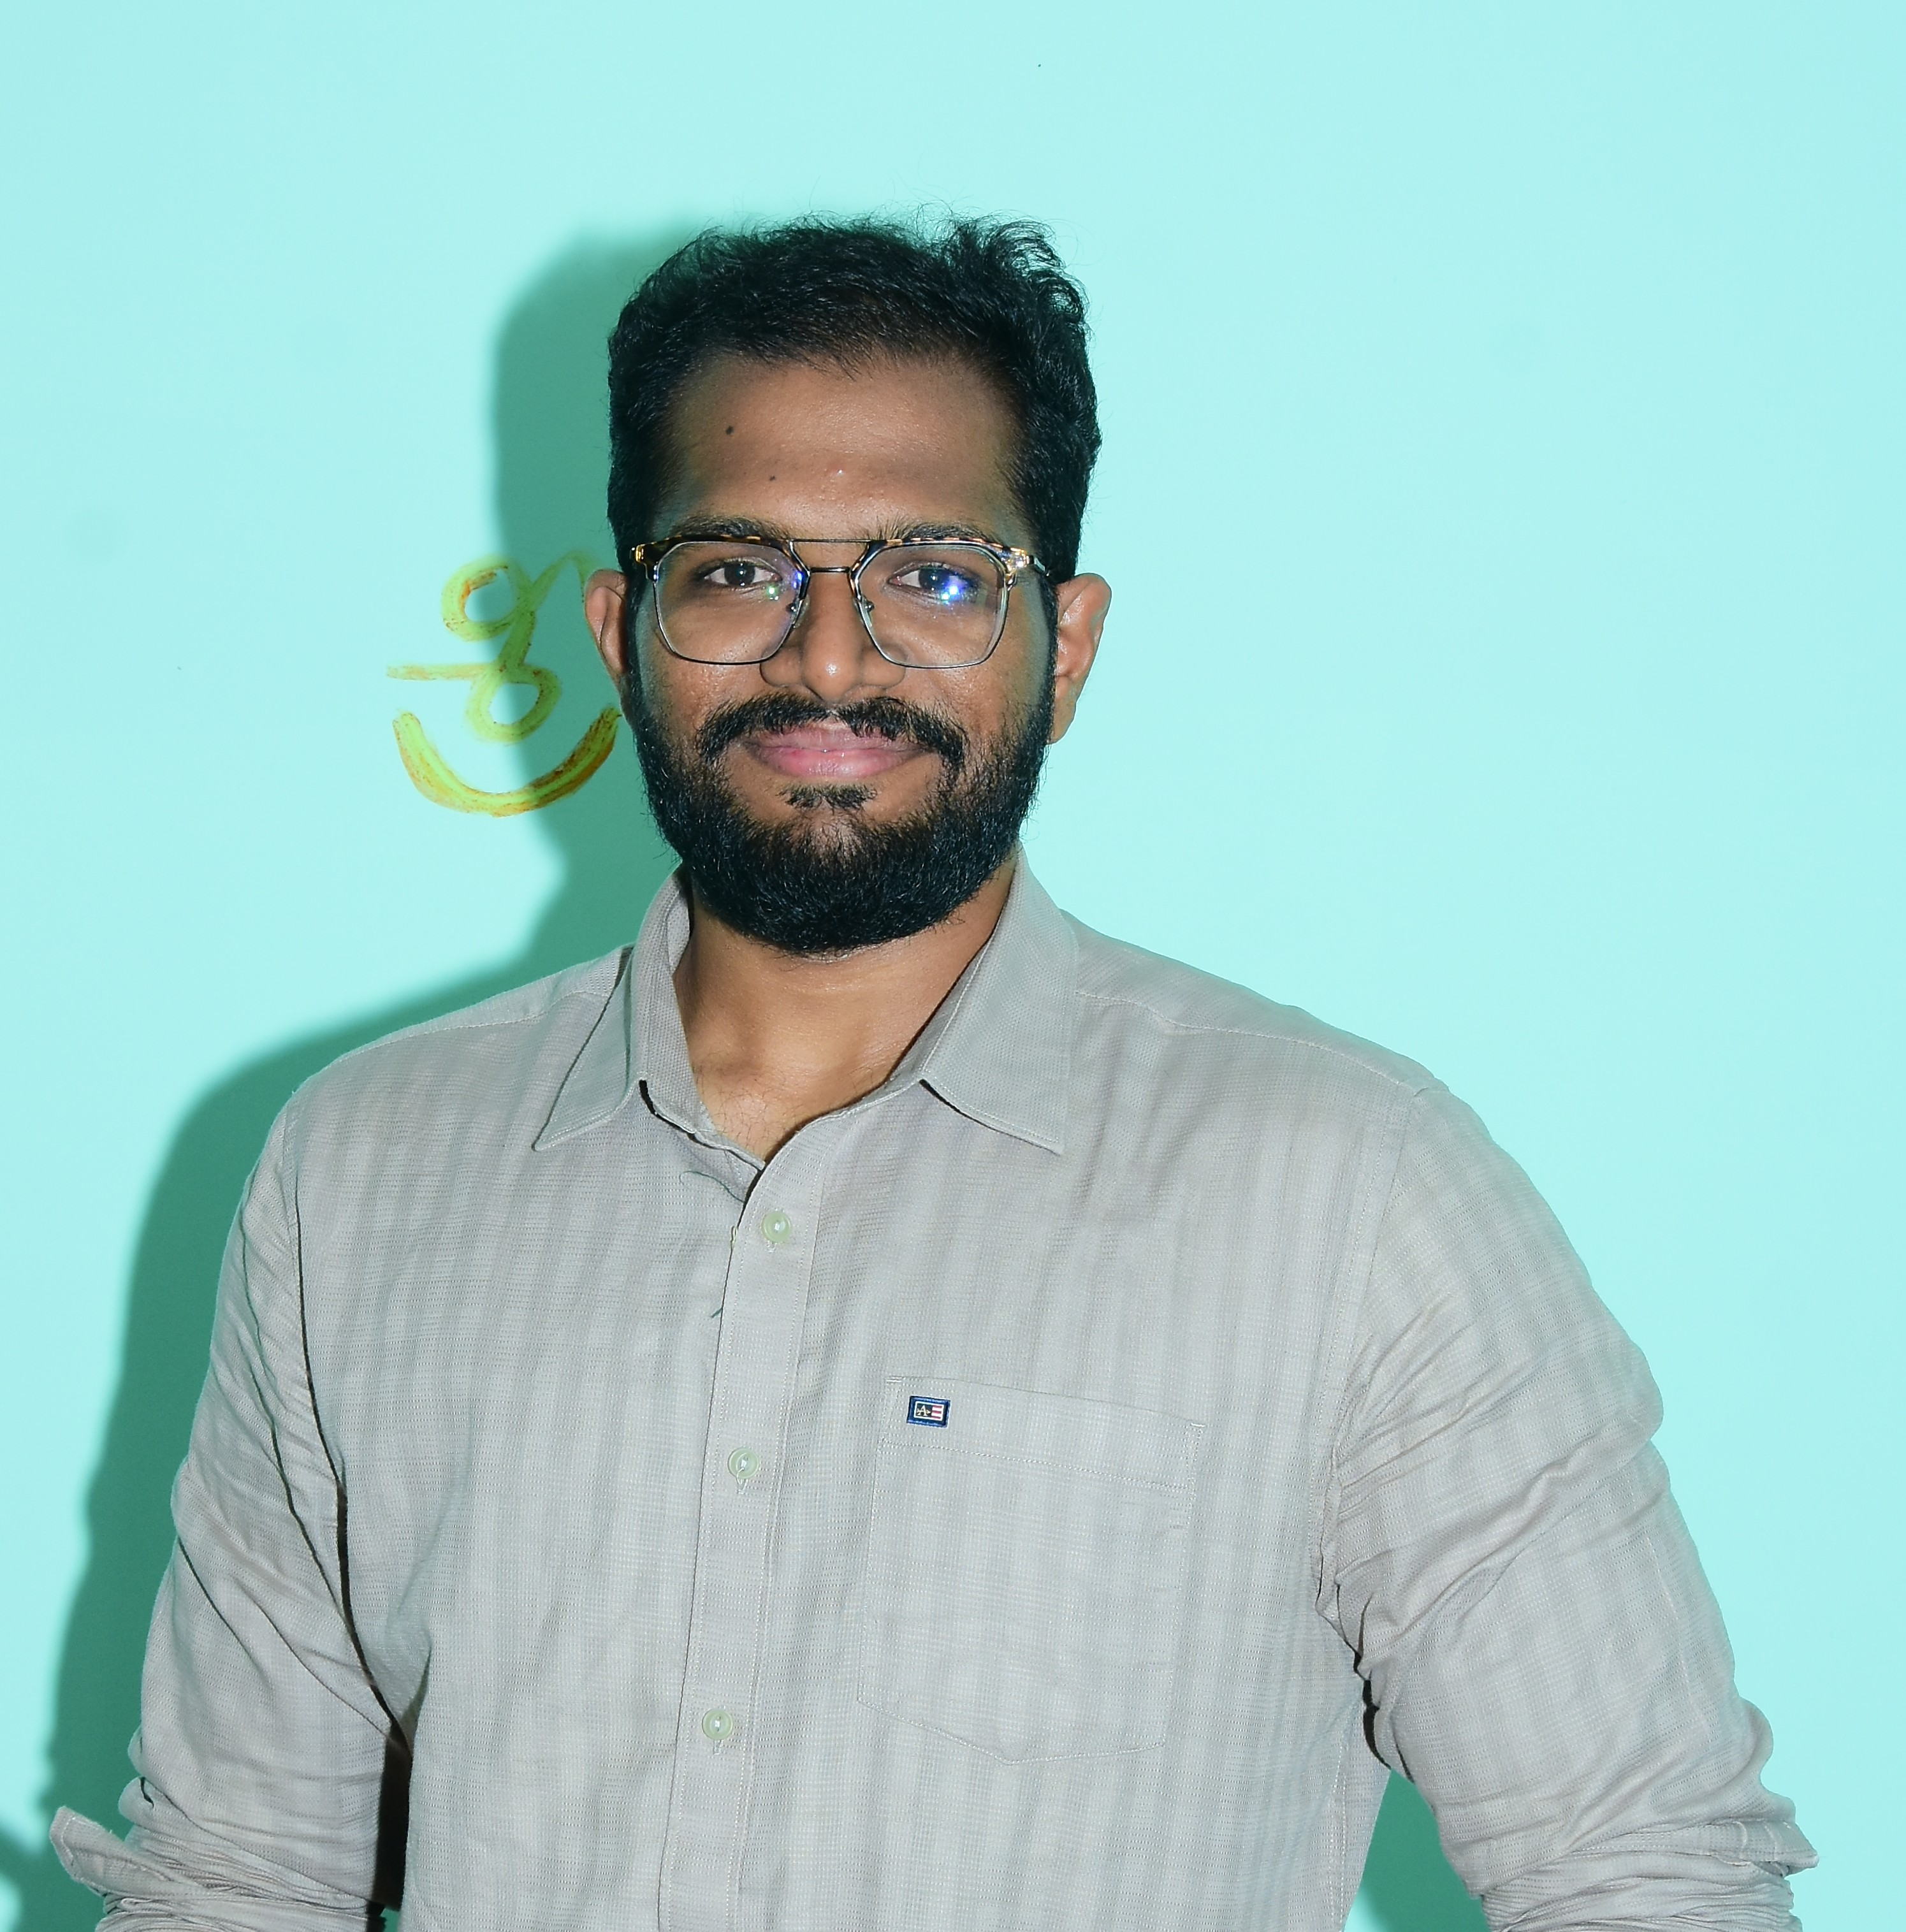
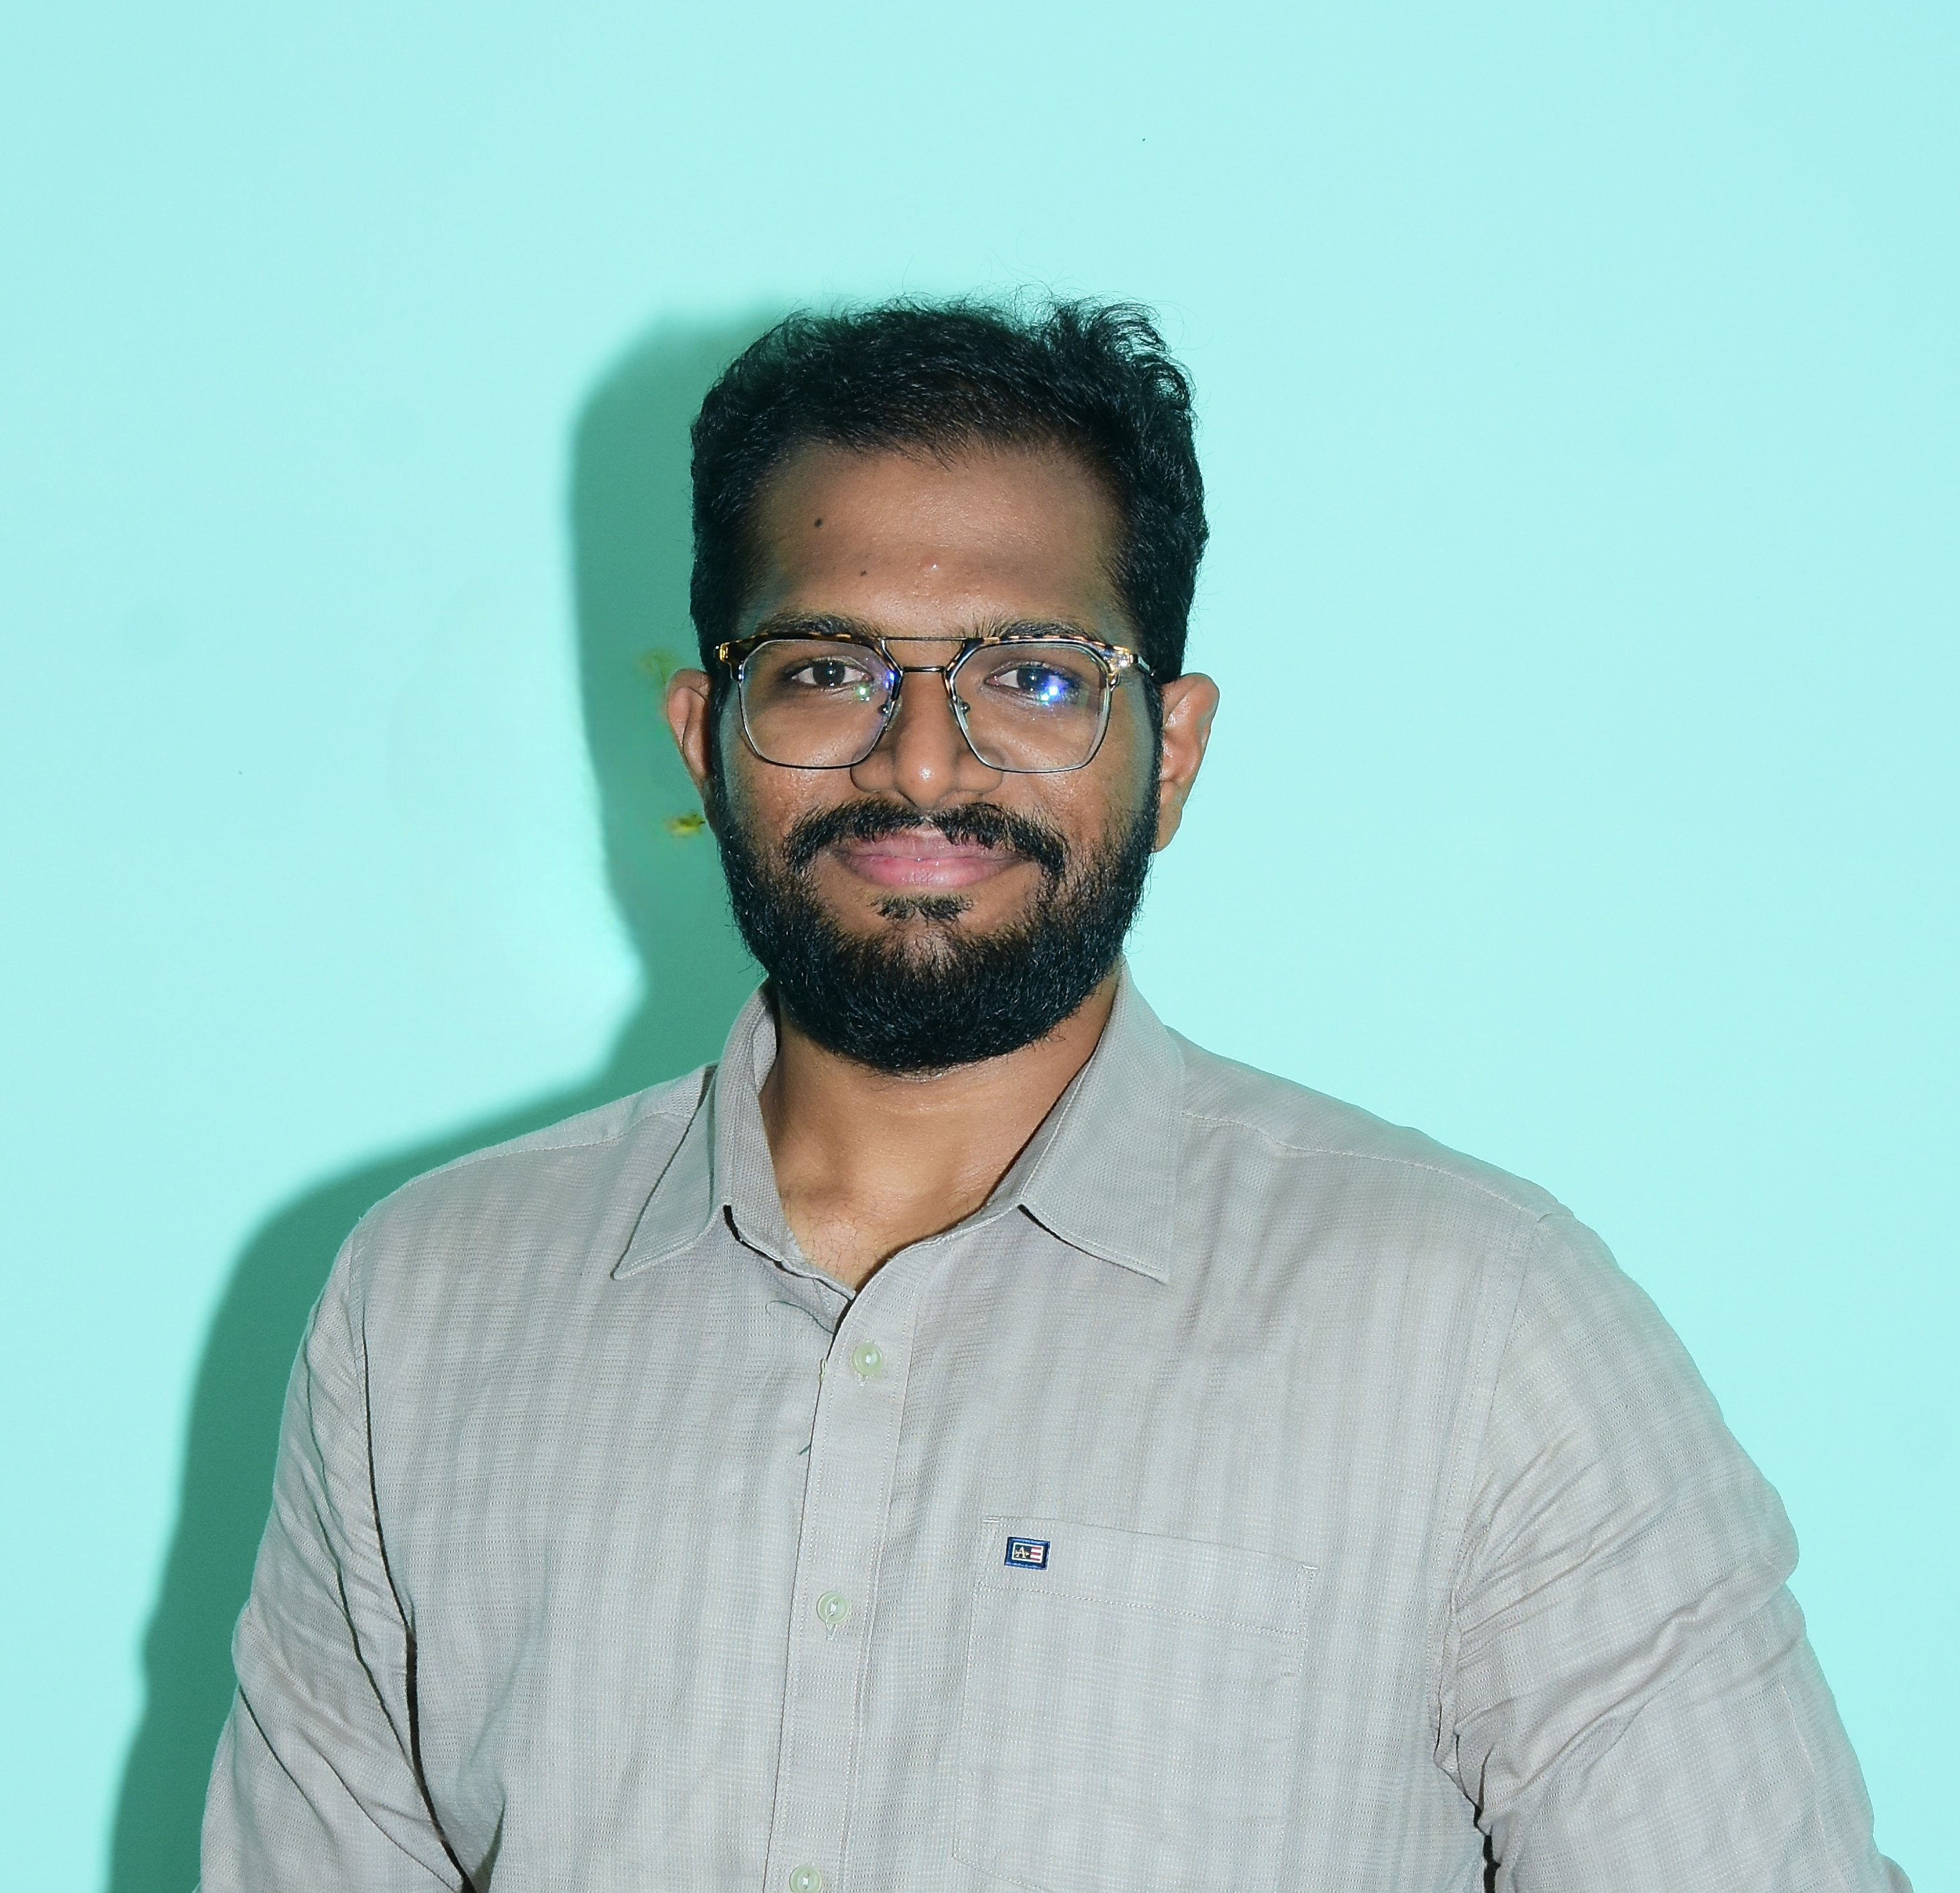
Project section changes (#7)
* project summary update

* Project section UI change

* Removed Unused variables

* File names corrections

* Projects data update

Changed region(s): [[0.0, 0.0934, 0.8391, 1.0], [0.5905, 0.6846, 0.9945, 1.0]]

diff --git a/src/components/Projects.jsx b/src/components/Projects.jsx
@@ -1,66 +1,144 @@
-import { Projectsgrid } from "./Utils";
-
 function Projects() {
   const projectsOverview = [
     {
-      title: "Frontend Developer – Streaming Platform UI",
+      title:
+        "Frontend Developer - Streaming TV and content aggregation platform ",
       description: [
-        "Built and maintained scalable Ul for a streaming TV platform and smart TV/device content platform that aggregates channels and apps.",
-        "Implemented client-side routing with React Router and global state management using Redux. ",
-        "Integrated OAuth 2.0 / OIDC authentication flows for secure user access and device-level content authorisation.",
-        "Optimized responsive layouts for large screens and collaborated with backend/product teams for API alignment.",
+        "Built and maintained a scalable UI for a smart TV content platform that aggregates streaming channels and apps across devices.",
+        "Implemented client-side routing with React Router and global state management using Redux.",
+        "Integrated OAuth 2.0 and OIDC authentication flows for secure user access and device-level content authorization.",
+        "Optimized responsive layouts for large-screen devices, ensuring consistent rendering across smart TV form factors.",
         "Collaborated with backend and product teams to align API contracts and feature delivery.",
-        "Added unit test coverage using Jest, improving reliability of UI logic and API integrations.",
+        "Wrote unit tests using Jest to improve reliability of UI logic and API integration layers.",
       ],
-      techStack:
-        " React, Tailwind CSS, Redux, React Router, OAuth 2.0 + OIDC, Jest",
+      techStack: [
+        "React",
+        "Tailwind CSS",
+        "Redux",
+        "React Router",
+        "OAuth 2.0 + OIDC",
+        "Jest",
+      ],
+      domain: "Frontend UI Development",
+      theoreticaFoundation:
+        "Modern smart TV and streaming ecosystems require users to manage multiple devices, subscriptions, and service interactions across fragmented interfaces. A unified account management platform addresses this by centralizing device registration - whether a set-top box or a smart TV - subscription control, warranty tracking, and support workflows into a single web application. Built with React, Redux, and OAuth 2.0/OIDC, such platforms demand scalable UI architecture, secure authentication, and seamless integration with backend services to serve both casual viewers and multi-device households effectively.",
+      problem: [
+        "Device linking, warranty details, complaints, and account management are scattered across disconnected portals.",
+        "Users managing multiple set-top boxes and smart TVs face poor visibility and high friction in day-to-day tasks.",
+        "Delayed issue resolution due to no single place to track subscriptions or raise support requests.",
+      ],
+      solution: [
+        "Built a unified account management platform covering device linking, multi-account management, subscription control, warranty tracking, and complaint raising.",
+        "Scalable React UI with Redux state management and OAuth 2.0/OIDC authentication.",
+        "Responsive layouts optimized for large screens; REST APIs integrated with backend teams.",
+        "Reliability ensured through Jest unit testing across UI logic and API layers.",
+      ],
     },
     {
-      title: "Full Stack Developer – Internal Automation Catalogue Platform",
+      title: "Full Stack Developer - Automation Catalogue Platform",
       description: [
-        "Developed internal platform to catalog automation projects, enabling reuse and faster development.",
+        "Developed a platform to catalog automation projects, enabling reuse and faster development.",
         "Developed React dashboards and dynamic forms for project submission and discovery.",
         "Designed and implemented REST APIs using Node.js and Express.",
         "Modeled and optimized MongoDB schemas for searchable project metadata.",
         "Implemented search and filtering features for faster project lookup.",
         "Deployed frontend on AWS CloudFront with restricted access controls, allowing access only through the client VPN / approved network.",
       ],
-      techStack:
-        "React, Node.js, Express, MongoDB, AWS CloudFront, OAuth 2.0 + OIDC, Jest",
+      techStack: [
+        "React",
+        "Node JS",
+        "Express JS",
+        "MongoDB",
+        "AWS CloudFront",
+        "OAuth 2.0 + OIDC",
+        "Jest",
+      ],
+      domain: "Full Stack Development",
+      problem: [
+        "No single source of truth for automation projects — details and reusable components are spread across disparate documents and repositories.",
+        "Teams repeatedly rebuild existing solutions due to poor discoverability.",
+        "Slower onboarding and duplicated effort across engineering groups.",
+      ],
+      solution: [
+        "Built an internal automation catalog where teams submit, browse, and reuse projects from a single interface.",
+        "React dashboards with dynamic forms, full-text search, and filtering for fast discovery.",
+        "Project overview recordings for visual walkthroughs without digging through documentation.",
+        "REST APIs with Node.js/Express, optimized MongoDB schemas, deployed on AWS CloudFront with network-restricted access.",
+      ],
+      theoreticaFoundation:
+        "Large engineering organizations accumulate automation projects over time, often scattered across repositories, documents, and wikis. Without a centralized discovery layer, teams repeatedly rebuild existing solutions. An automation catalog platform solves this by providing a searchable, metadata-driven repository where teams can submit, discover, and reuse projects - reducing duplication and accelerating development.",
     },
     {
-      title:
-        "Software Engineer – Firebolt Automation Platform (Hybrid Open/Closed Source)",
+      title: "Software Engineer - Rust based Firebolt Automation Extension",
       description: [
-        "Developed a Rust-based device extension for Ripple set-top boxes, enabling device-level automation capabilities, including log capture, screenshots, remote reboot, and command execution.",
+        "Developed a Rust-based device extension for Ripple set-top boxes, enabling device-level automation including log capture, screenshots, remote reboot, and command execution.",
         "Implemented secure WebSocket pub/sub communication for real-time device control and telemetry.",
-        "Worked with Cypress and Cucumber client framework and javascript based mock firebolt application.",
-        "Deployed services via AWS Lambda, API Gateway, S3, CloudFront.",
-        "Extension adopted across 50+ development device types across North America and Europe.",
+        "Integrated the Rust extension into a Cypress and JavaScript-based test framework, bridging native device control with automated test workflows.",
+        "Deployed supporting services via AWS Lambda, API Gateway, S3, and CloudFront.",
+        "Extension adopted across 50+ device types in North America and Europe.",
       ],
-      techStack:
-        "Rust, JavaScript, Cypress, Cucumber, Jest, WebSockets, AWS Lambda, API Gateway, S3, CloudFront, Linux, CI/CD",
-      openSourceLinks: [
-        {
-          name: "Ripple",
-          link: "https://github.com/rdkcentral/Ripple",
-          cover: "[GitHub - Ripple Repo]",
-        },
-        {
-          name: "Cypress & JavaScript Test Client(FCS)",
-          link: "https://github.com/rdkcentral/firebolt-certification-suite",
-          cover: "[GitHub - Cypress Client Repo]",
-        },
-        {
-          name: "Client based 3rd party application(FCA)",
-          link: "https://github.com/rdkcentral/firebolt-certification-app",
-          cover: "[GitHub - Thirdparty app Repo]",
-        },
-        {
-          name: "Mock Firebolt application",
-          link: "https://github.com/rdkcentral/mock-firebolt",
-          cover: "[GitHub - Mock Firebolt OS Repo]",
-        },
+      techStack: [
+        "Rust",
+        "JavaScript",
+        "Cypress",
+        "WebSockets",
+        "AWS Lambda",
+        "API Gateway",
+        "AWS S3 bucket",
+        "CloudFront",
+        "Linux",
+        "CI/CD",
+      ],
+      domain: "Software Engineering",
+      theoreticaFoundation:
+        "Automated testing of set-top boxes at scale requires device-level control that standard test frameworks can't provide natively. Ripple's dynamic extension model — a Rust-based Firebolt gateway for managing streaming apps on set-top boxes — made it possible to plug in a native extension that exposes log capture, screenshots, and remote control directly to test workflows over secure, real-time WebSocket communication.",
+      problem: [
+        "Standard JavaScript-based test frameworks can't provide native device-level control for Ripple set-top boxes.",
+        "No unified mechanism to capture logs, take screenshots, reboot devices, or execute commands remotely.",
+        "Automated testing was slow, inconsistent, and hard to maintain across diverse device types.",
+      ],
+      solution: [
+        "Built a Rust-based device extension exposing log capture, screenshots, remote reboot, and command execution.",
+        "Secure WebSocket pub/sub communication for real-time device control and telemetry.",
+        "Integrated directly into Cypress/JavaScript test frameworks; supporting services on AWS Lambda, API Gateway, S3, and CloudFront.",
+        "Adopted across 50+ device types in North America and Europe.",
+      ],
+    },
+    {
+      title: "Individual Frontend Developer - Client Portfolio Website",
+      description: [
+        "Designed and developed a responsive portfolio website for a public figure using React and modern UI practices.",
+        "Built modular sections for biography, media, achievements, and public engagement.",
+        "Implemented SEO-friendly structure and performance-optimized layouts to improve visibility and load speed.",
+        "Collaborated with the client to gather requirements and deliver a tailored visual identity.",
+        "Built a protected admin interface using JWT-based authentication, enabling secure content management for gallery, news, and events.",
+        "Deployed a serverless architecture on AWS (S3, Lambda, API Gateway, DynamoDB, CloudFront) with CI-based automated deployments.",
+      ],
+      domain: "Full stack Development",
+      techStack: [
+        "React",
+        "Javascript",
+        "Tailwind CSS",
+        "React Router",
+        "AWS S3 bucket",
+        "AWS Lambda functions",
+        "API Gateway",
+        "DynamoDB",
+        "CloudFront",
+        "CI/CD",
+      ],
+      theoreticaFoundation:
+        "Public figures need a professional web presence that reflects their identity while allowing them to manage content without relying on developers for routine updates. A custom-built portfolio gives full control over branding, SEO, and content architecture — while a serverless backend keeps costs low and scales with the traffic spikes common to public-facing sites.",
+      problem: [
+        "Generic CMS platforms limit branding control and often have poor performance characteristics.",
+        "Content updates for gallery, news, and events require developer involvement, creating bottlenecks.",
+        "No ownership of infrastructure or content pipeline — fully dependent on third-party platforms.",
+      ],
+      solution: [
+        "Built a fully custom React portfolio with modular sections for biography, media, achievements, and public engagement.",
+        "Protected admin interface with JWT authentication, enabling the client to self-manage gallery, news, and events independently.",
+        "SEO-optimized structure and performance-tuned layouts for fast load times and discoverability.",
+        "Serverless AWS architecture (S3, Lambda, API Gateway, DynamoDB, CloudFront) with CI-based automated deployments for zero-downtime updates.",
       ],
     },
   ];
@@ -73,6 +151,79 @@ function Projects() {
       </div>
       <Projectsgrid projects={projectsOverview} />
     </div>
+  );
+}
+
+function Projectsgrid({ projects }) {
+  return (
+    <div className="max-w-[1300px] w-full px-4">
+      {projects.map((p) => (
+        <div
+          key={p.title}
+          className="w-full h-auto grid grid-cols-1 md:grid-cols-10 mb-8 rounded-2xl min-h-[300px]"
+        >
+          <ProjectItem project={p} />
+        </div>
+      ))}
+    </div>
+  );
+}
+
+function ProjectItem({ project }) {
+  return (
+    <>
+      <div className="col-span-3 bg-gray-800 rounded-t-xl md:rounded-t-none md:rounded-l-xl! px-4 md:px-10 flex flex-col justify-center py-8 gap-3">
+        <p className="text-teal-400 uppercase font-bold text-xs tracking-widest self-start">
+          {project.domain}
+        </p>
+        <p className="text-lg text-white">{project.title}</p>
+      </div>
+      <div className="col-span-7 bg-gray-700 rounded-b-xl md:rounded-b-none md:rounded-r-xl! px-4 md:px-10 flex flex-col gap-8 py-2 md:py-8">
+        <div className="flex flex-col gap-3">
+          <p className="uppercase text-white/80 font-bold">
+            Theoretical Foundation
+          </p>
+          <p className="text-white/70">{project.theoreticaFoundation}</p>
+        </div>
+        <div className="flex flex-col md:flex-row justify-between gap-y-4 gap-x-6">
+          <div className="flex flex-col gap-2">
+            <p className="uppercase font-bold text-[14px] text-red-600 tracking-widest">
+              problem
+            </p>
+            <p className="text-white/70 ml-2">
+              {project.problem.map((p) => (
+                <li>{p}</li>
+              ))}
+            </p>
+          </div>
+          <div className="flex flex-col gap-2">
+            <p className="uppercase font-bold text-[14px] text-green-600 tracking-widest">
+              solution
+            </p>
+            <p className="text-white/70 ml-2">
+              {project.solution.map((s) => (
+                <li>{s}</li>
+              ))}
+            </p>
+          </div>
+        </div>
+        <div className="flex flex-col gap-2">
+          <p className="uppercase text-white/80 text-md tracking-widest">
+            technology stack
+          </p>
+          <div className="flex flex-wrap gap-2">
+            {project.techStack.map((tech) => (
+              <p
+                key={tech}
+                className="shrink-0 text-teal-300 text-sm border border-teal-300/20 px-2 py-0.5 rounded-md"
+              >
+                {tech}
+              </p>
+            ))}
+          </div>
+        </div>
+      </div>
+    </>
   );
 }
 

diff --git a/src/Pages/Home.jsx b/src/Pages/Home.jsx
@@ -7,8 +7,7 @@ import {
   FadeIn,
 } from "../components/Utils";
 
-const Career = lazy(() => import("../components/Career"));
-const FreeLancing = lazy(() => import("../components/FreeLancing"));
+const Journey = lazy(() => import("../components/Journey"));
 const Intro = lazy(() => import("../components/Intro"));
 const Projects = lazy(() => import("../components/Projects"));
 
@@ -18,20 +17,13 @@ function Home() {
       <Intro />
       <LazyScrolling>
         <Suspense fallback={<CareerLoadingScreen />}>
-          <FadeIn>{<Career />}</FadeIn>
+          <FadeIn>{<Journey />}</FadeIn>
         </Suspense>
       </LazyScrolling>
       <LazyScrolling>
         <Suspense fallback={<ProjectsLoadingScreen />}>
           <FadeIn>
             <Projects />
-          </FadeIn>
-        </Suspense>
-      </LazyScrolling>
-      <LazyScrolling>
-        <Suspense fallback={<IndependentLoadingScreen />}>
-          <FadeIn>
-            <FreeLancing />
           </FadeIn>
         </Suspense>
       </LazyScrolling>

diff --git a/src/components/Utils.jsx b/src/components/Utils.jsx
@@ -1,10 +1,11 @@
 function Projectsgrid({ projects }) {
   return (
-    <div className="grid max-w-[1100px] w-full px-4 gap-5">
-      {projects.map((p) => (
-        <ProjectItem key={p.title} p={p} />
-      ))}
-    </div>
+    // <div className="grid max-w-[1100px] w-full px-4 gap-5">
+    //   {projects.map((p) => (
+    //     <ProjectItem key={p.title} p={p} />
+    //   ))}
+    // </div>
+    <></>
   );
 }
 

diff --git a/src/components/GetInTouch.jsx b/src/components/GetInTouch.jsx
@@ -1,5 +1,5 @@
 function GetInTouch() {
-  return <div></div>;
+  return <div>Get in touch</div>;
 }
 
 export default GetInTouch;

diff --git a/src/components/LazyScrolling.jsx b/src/components/LazyScrolling.jsx
@@ -13,7 +13,7 @@ function LazyScrolling({ children }) {
         }
       },
       {
-        threshold: 0.2,
+        threshold: 0,
         rootMargin: "50px 0px",
       },
     );